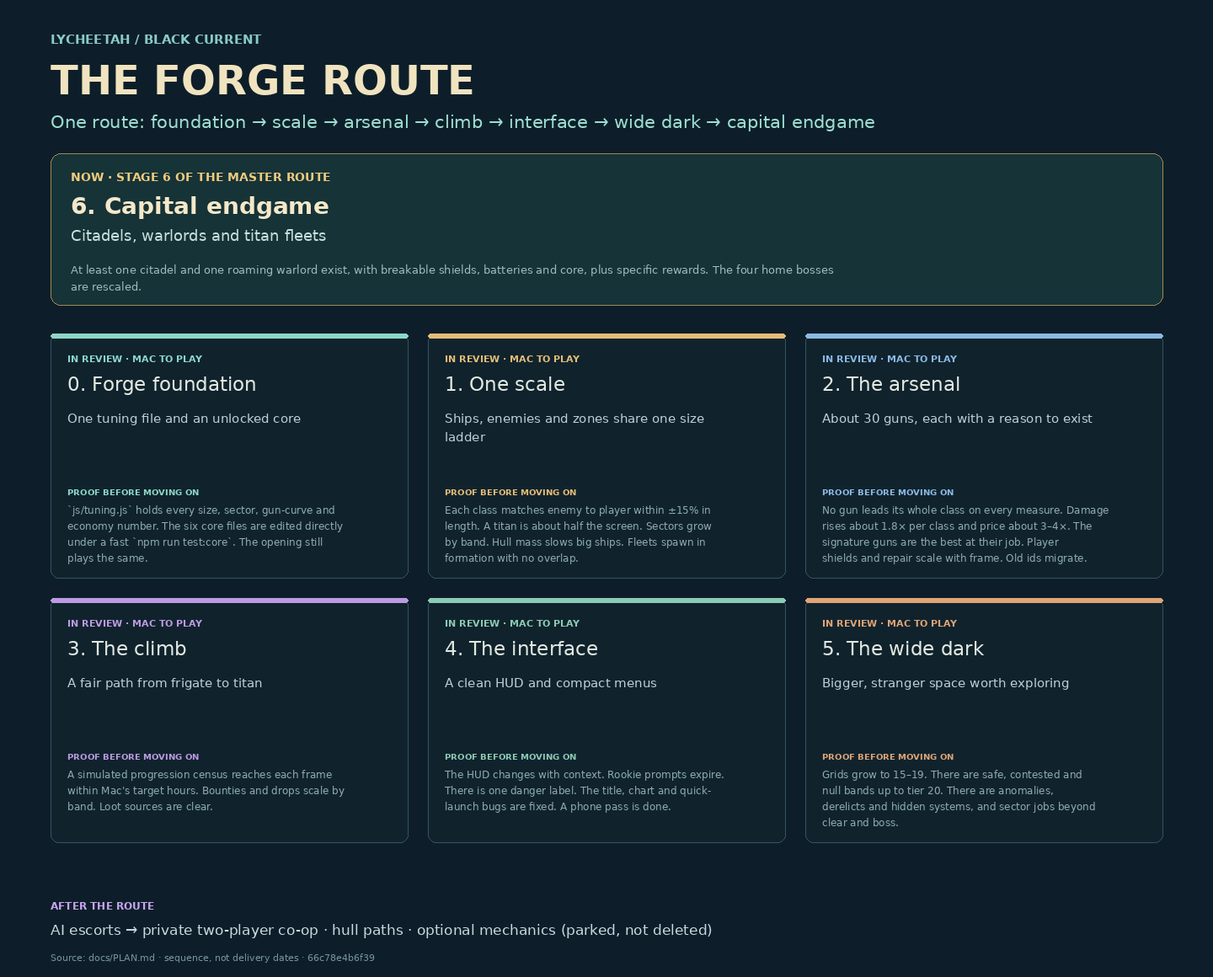
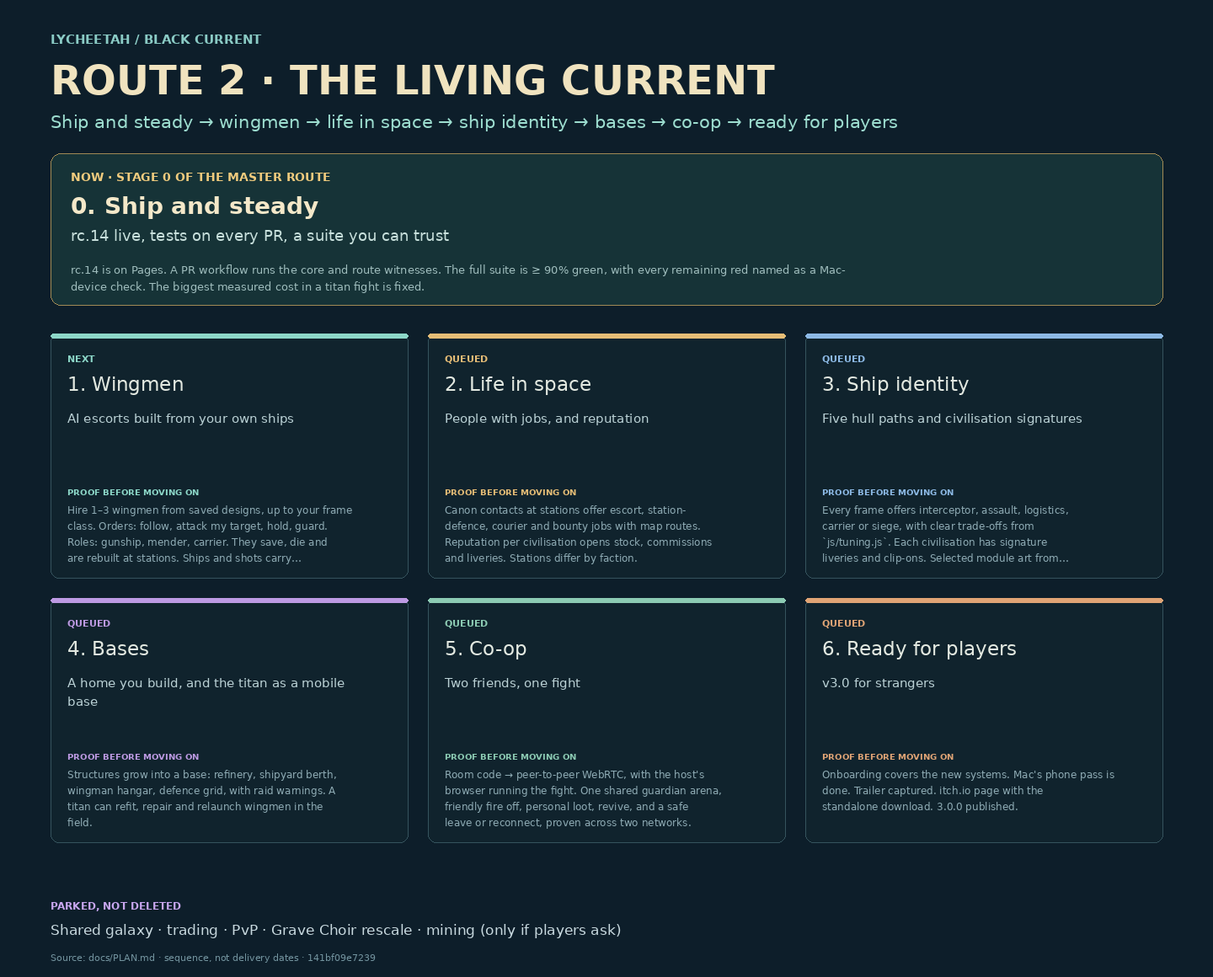
Publish rc.14 and lay out Route 2, "The living current"
rc.14 (2.12.0-rc.14 · Master route preview) is live:
- built from 176a1b3 and published as gh-pages 07870cb;
- Pages built in about 45 s, and live play/ shows v=20261028s69 and the
  rc.14 title;
- 35/35 changed live files match the package hashes;
- the package gate passes 23/24; the one failure needs untracked incoming
  art in the building clone.
Before publishing I rebuilt the candidate so the landing page keeps the
committed flight screenshot. witness-site had overwritten it with a
shipyard capture during the full run.

docs/PLAN.md now carries Route 2 in seven stages: ship and steady,
wingmen, life in space, ship identity, bases, co-op, ready for players.
Each stage has its done-when, files and witness, plus the reasons for the
order. New decisions (Mac, 2026-10-29):
- small drops;
- five hull paths;
- peer-to-peer, host-authoritative co-op; the PeerJS relay needs Mac's
  confirmation before Stage 5 ships.

Route 1's stage rows are removed from the live tasks (their receipts are
in the CHANGELOG and the Stage 0-6 commits). Live tasks start Route 2 at
Stage 0, with the rc.14 verdict open for Mac. The roadmap is re-rendered
with Route 2 labels, and README and CHANGELOG record the publication.

Claude-Session: https://claude.ai/code/session_01KZmWTsz9sR1w1zFVsVwU6C

diff --git a/scripts/render-roadmap.py b/scripts/render-roadmap.py
@@ -36,8 +36,8 @@ def lines(x, y, value, width=45, size=16, color='#abc3c9', limit=6):
     return len(wrapped)*(size+7)
 
 label(60, 52, 'LYCHEETAH / BLACK CURRENT', 15, '#8acbc5', 700)
-label(60, 112, 'THE FORGE ROUTE', 48, '#f0e3bf', 700)
-label(60, 152, 'One route: foundation → scale → arsenal → climb → interface → wide dark → capital endgame', 21, '#9dded0')
+label(60, 112, 'ROUTE 2 · THE LIVING CURRENT', 48, '#f0e3bf', 700)
+label(60, 152, 'Ship and steady → wingmen → life in space → ship identity → bases → co-op → ready for players', 21, '#9dded0')
 parts.append('<rect x="60" y="182" width="1320" height="180" rx="12" fill="#163337" stroke="#a18a55"/>')
 label(84, 215, f'NOW · STAGE {current} OF THE MASTER ROUTE', 14, '#f0cb7d', 700)
 label(84, 254, rows[current][0], 28, '#f4e8c9', 700)
@@ -57,8 +57,8 @@ for i, stage in enumerate(order[1:]):
     label(x+20, y+192, 'PROOF BEFORE MOVING ON', 10, color, 700)
     lines(x+20, y+214, gate, 54, 12, '#8eabb4', 4)
 
-label(60, 1080, 'AFTER THE ROUTE', 12, '#c8a6ef', 700)
-label(60, 1110, 'AI escorts → private two-player co-op · hull paths · optional mechanics (parked, not deleted)', 17, '#c8d9df')
+label(60, 1080, 'PARKED, NOT DELETED', 12, '#c8a6ef', 700)
+label(60, 1110, 'Shared galaxy · trading · PvP · Grave Choir rescale · mining (only if players ask)', 17, '#c8d9df')
 label(60, 1141, 'Source: docs/PLAN.md · sequence, not delivery dates · '+hashlib.sha256(source.read_bytes()).hexdigest()[:12], 11, '#73949f')
 parts.append('</svg>')
 svg='\n'.join(parts)

diff --git a/docs/PLAN.md b/docs/PLAN.md
@@ -3,75 +3,143 @@
 The one plan for every AI seat and every human working on this repo: a single
 route, worked top-down. Read it before you start; update it before you stop.
 
-## The master route (2026-10-28)
+## The master route · Route 2 "The living current" (2026-10-29)
 
-The central loop is **build → fight → recover something useful → refit → choose
-a harder destination**. Mac owns design, direction, the phone/fun verdict and
-release decisions. This is the **only** game plan: one route, worked top-down,
-from the published rc.13 to the capital endgame. Stages are a sequence, not
-dates. The table is what `scripts/render-roadmap.py` draws; the stage notes
-below it are the working list.
+The central loop is still **build → fight → recover something useful → refit → choose
+a harder destination**. Route 1 (scale, arsenal, climb, interface, wide dark, capital
+endgame) shipped as **2.12.0-rc.14**. Its receipts live in the CHANGELOG and git history.
+Route 2 makes the Current feel **alive and shared**: allies, people with jobs, ships with
+identity, a home you build, a friend in the fight, and a release strangers can pick up.
+
+Mac owns design, direction, the phone/fun verdict and release decisions. This is the
+**only** game plan: one route, worked top-down. **Every stage ends in a publishable
+candidate.** We publish small drops (one per stage or two) on Mac's word, so feedback
+stays fresh. The table is what `scripts/render-roadmap.py` draws; the stage notes below
+are the working list.
 
 | Stage | Outcome | Done when |
 | --- | --- | --- |
-| 0. Forge foundation | One tuning file and an unlocked core | `js/tuning.js` holds every size, sector, gun-curve and economy number. The six core files are edited directly under a fast `npm run test:core`. The opening still plays the same. |
-| 1. One scale | Ships, enemies and zones share one size ladder | Each class matches enemy to player within ±15% in length. A titan is about half the screen. Sectors grow by band. Hull mass slows big ships. Fleets spawn in formation with no overlap. |
-| 2. The arsenal | About 30 guns, each with a reason to exist | No gun leads its whole class on every measure. Damage rises about 1.8× per class and price about 3–4×. The signature guns are the best at their job. Player shields and repair scale with frame. Old ids migrate. |
-| 3. The climb | A fair path from frigate to titan | A simulated progression census reaches each frame within Mac's target hours. Bounties and drops scale by band. Loot sources are clear. |
-| 4. The interface | A clean HUD and compact menus | The HUD changes with context. Rookie prompts expire. There is one danger label. The title, chart and quick-launch bugs are fixed. A phone pass is done. |
-| 5. The wide dark | Bigger, stranger space worth exploring | Grids grow to 15–19. There are safe, contested and null bands up to tier 20. There are anomalies, derelicts and hidden systems, and sector jobs beyond clear and boss. |
-| 6. Capital endgame | Citadels, warlords and titan fleets | At least one citadel and one roaming warlord exist, with breakable shields, batteries and core, plus specific rewards. The four home bosses are rescaled. |
+| 0. Ship and steady | rc.14 live, tests on every PR, a suite you can trust | rc.14 is on Pages. A PR workflow runs the core and route witnesses. The full suite is ≥ 90% green, with every remaining red named as a Mac-device check. The biggest measured cost in a titan fight is fixed. |
+| 1. Wingmen | AI escorts built from your own ships | Hire 1–3 wingmen from saved designs, up to your frame class. Orders: follow, attack my target, hold, guard. Roles: gunship, mender, carrier. They save, die and are rebuilt at stations. Ships and shots carry owner/team ids. |
+| 2. Life in space | People with jobs, and reputation | Canon contacts at stations offer escort, station-defence, courier and bounty jobs with map routes. Reputation per civilisation opens stock, commissions and liveries. Stations differ by faction. |
+| 3. Ship identity | Five hull paths and civilisation signatures | Every frame offers interceptor, assault, logistics, carrier or siege, with clear trade-offs from `js/tuning.js`. Each civilisation has signature liveries and clip-ons. Selected module art from Antigravity's lane is in flight and in the yard. |
+| 4. Bases | A home you build, and the titan as a mobile base | Structures grow into a base: refinery, shipyard berth, wingman hangar, defence grid, with raid warnings. A titan can refit, repair and relaunch wingmen in the field. |
+| 5. Co-op | Two friends, one fight | Room code → peer-to-peer WebRTC, with the host's browser running the fight. One shared guardian arena, friendly fire off, personal loot, revive, and a safe leave or reconnect, proven across two networks. |
+| 6. Ready for players | v3.0 for strangers | Onboarding covers the new systems. Mac's phone pass is done. Trailer captured. itch.io page with the standalone download. 3.0.0 published. |
 
 ```mermaid
 flowchart LR
-  S0["0 · Forge foundation"] --> S1["1 · One scale"] --> S2["2 · The arsenal"] --> S3["3 · The climb"]
-  S3 --> S4["4 · The interface"] --> S5["5 · The wide dark"] --> S6["6 · Capital endgame"]
+  S0["0 · Ship and steady"] --> S1["1 · Wingmen"] --> S2["2 · Life in space"] --> S3["3 · Ship identity"]
+  S3 --> S4["4 · Bases"] --> S5["5 · Co-op"] --> S6["6 · Ready for players"]
 ```
 
 ### Why this order
 
-Measured on rc.13 (2026-10-28):
-- **Zones too small.** A sector is 5,200–6,400 px across, while a titan is 800 px and an enemy flagship about 1,200 px. At 40% zoom, one screen is half a sector.
-- **Sizes don't match.** Enemy art is scaled up to 4.5× (`js/hostile-skins.js`), so enemies are bigger than player ships of the same class. Deep fleets spawn overlapping. Movement has no mass, so a titan handles like a frigate.
-- **Guns.** 78 of the 93 guns are the same 15 types cloned into each class. Flak has the top damage in every class and Lance the lowest. Railgun, lance and cluster are weaker than generated guns in their own class.
-- **Price wall.** Capital guns cost about 110k, 10× the siege price, for 1.85× the damage.
-- **Endgame.** A fitted titan costs about 2M metal against 1,500 metal per tier-10 kill. Player shields don't scale: a titan had 90 shield; the tier-10 enemy has 22,000.
+- **Trust first.** 31 of 54 witnesses are red, mostly stale, so the suite can't yet say "nothing broke". Small drops need a suite and CI that mean something.
+- **Wingmen before co-op.** Giving ships owner/team ids, and letting more than one friendly ship fight beside you, is half the co-op refactor. It is also fun on its own, solo.
+- **Life before bases.** Jobs, contacts and reputation are what give a base a reason to exist and a reason to be raided.
+- **Identity before bases.** Hull paths decide what a base's berth and hangar build and hold.
+- **Co-op late but not last.** It reuses wingmen (team ids), bases (a shared home later) and the guardian arenas. It needs the networking spike and a connection decision, which was made below.
+- **Ready for players last.** Onboarding, trailer and store page describe a finished feature set.
 
-Scale comes first because every later number (range, damage, price, sector content) is tuned against it. Doing balance before scale means doing it twice.
+### Decisions in force
 
-### Decisions in force (Mac approved, 2026-10-28)
+Still in force from Route 1:
+1. The six core files are open to edit, under behaviour witnesses.
+2. Saves are migrated, never reset.
+3. `art/` is used first; Antigravity keeps the module and cosmetic art lane.
+4. Threat stays fixed by place and never reads the player's power.
 
-1. **The six core files are unlocked.** `engine.js`, `hardpoints.js`, `fleet.js`, `weapons.js`, `progression.js` and `shipyard-ui.js` may be edited directly. Behaviour witnesses replace their byte-hash gates.
-2. **About 30 curated guns** are offered instead of 93 (all 16 Point starters, 25 roster guns, 3 specials). Retired guns already owned keep flying; nothing is taken from a save, so no refund is due. Enemies and salvage use the roster gun of the same class and family.
-3. **Migrate saves; never reset them.** Blueprints, metal and progress survive every stage.
-4. **A titan fills about 40% of the screen at the default zoom.** The camera pulls back with hull class, and sectors grow with danger band (Mac's framing verdict decides the final ladder in `js/tuning.js`).
-5. **Use `art/` first** (see Art library) before commissioning anything new. Antigravity keeps the module/cosmetic art lane.
+New, Mac, 2026-10-29:
+5. **Small drops.** Publish rc.14, then a candidate after every stage or two, on Mac's word.
+6. **Five hull paths per frame:** interceptor, assault, logistics, carrier, siege.
+7. **Co-op is peer-to-peer and host-authoritative.** The host's browser runs the fight and the guest sends input. No game server.
+   - Signalling for the first slice uses a free relay (PeerJS cloud). That is a third-party dependency; Mac confirms it before Stage 5 ships.
 
-### After the route (parked, not deleted)
-- **AI escorts, then private co-op.** Useful AI escort roles first, then the private two-player arena (proposal below).
-- **More sector jobs.** Escort, station defence and courier jobs (Stage 5 shipped salvage and anomaly jobs).
-- **Hull specialisation paths.** Five or eight per frame; decide before building.
-- **Optional mechanics.** Damage-type multipliers, adjacency bonuses, a volatile hold and a fitting-reduction preview. Never add these by implication.
-- **Mining and industry.** Only if players ask.
+### Stage notes (the working list)
 
-### Co-op proposal — design only
+**0 · Ship and steady**
+- ~~Publish rc.14~~ Done 2026-10-29 (see live tasks).
+- **CI:** add `.github/workflows/test.yml` on `pull_request`. It installs Playwright Chromium, serves the repo and runs `node scripts/regression.mjs core one-scale arsenal climb interface wide-dark capital`.
+- **Test debt:** work the red witnesses (list in `shots/regression/summary.json`).
+  - Update the stale ones: old UI ids, "92 weapons", missing fixtures.
+  - Retire witnesses whose subject was removed (freeform editor, workshop), with one line each in the commit.
+  - Name the Mac-device-only checks as exceptions.
+- **Performance:** profile a danger-20 titan fight with `scripts/profile-fps.mjs` and `js/render-budget.js`. Fix the biggest measured cost. Desktop and phone-viewport numbers recorded; real-device FPS stays Mac's.
 
-- First slice: private two-player room, one arena, existing ships, one shared
-  guardian, friendly fire off, personal loot and a simple revive. Four players
-  is a later expansion, after frame/network measurements.
-- Join flow: create room → share code → ready check → enter together → fight →
-  leave with an explicit result. No public matchmaking or voice/chat is needed
-  for this first slice.
-- Proposed authority: a room service owns enemies, damage, pickups and reward
-  claims; clients send input and display snapshots. This needs a technical
-  spike: the present runtime has one global player and player/enemy bullet
-  ownership. It is not already a network engine.
-- Architecture gate: separate simulation from presentation, add player/team IDs,
-  validate imported designs, and define reconnect and room-ending behaviour.
-  Prototype persistent rewards only after duplicate-claim and dropped-connection
-  cases pass. Room hosting, stack, cost and delivery time are still undecided.
-- Persistent shared galaxy, trading and PvP stay outside the first prototype.
-  This proposal authorises planning, not deployment of a multiplayer backend.
+**1 · Wingmen**
+- Grow `js/roles.js` wing escorts into real modular wingmen:
+  - a `wingmen` save doc;
+  - designs compiled with `modularShips.compile` and scaled by `tuning.SIZE`;
+  - steering from `EnemyOrganism`, but on the player's team.
+- Orders on keys 5–8 and phone buttons.
+- Owner/team id on ships and projectiles, so hits, kills, loot and contracts attribute correctly.
+- Rebuild a lost wingman at stations for metal.
+- Witness: `witness-wingmen.mjs`.
+
+**2 · Life in space**
+- A contacts board in station services (`js/station-grid.js`), using canon names from `js/canon.js`.
+- New contract kinds with routes via `js/travel.js`:
+  - escort (a convoy follows a lane);
+  - station defence (waves at a public berth);
+  - courier (dock at a far station);
+  - bounty (a named target).
+- Reputation per civilisation opens `quartermaster.js` stock, commissions and liveries.
+- Witness: `witness-life.mjs`.
+
+**3 · Ship identity**
+- Hull paths are bought from the Shipwright and stored per frame. Each changes a few `tuning` multipliers (mass, shields, slots, hangar count, siege range), shown on frame cards.
+- Civilisation signatures through `js/ship-identity.js` and `js/faction-art.js`.
+- Module art from `art/review/` → `art/keyed/` with manifests, coordinated with Antigravity.
+- Witness: `witness-identity-paths.mjs`.
+
+**4 · Bases**
+- Extend `js/hubs.js` KINDS: refinery, berth, hangar, defence grid.
+- A base panel: modules, upkeep, raid warnings.
+- Titan services: refit and wingman relaunch in the field, gated by a titan-class hangar.
+- Witness: `witness-bases.mjs`.
+
+**5 · Co-op**
+- Refactor the engine to `engine.players[]`, with `engine.player` kept as the local alias; per-player input and HUD.
+- Networking:
+  - a WebRTC data channel;
+  - the host sends snapshots at about 15 Hz and the guest sends input at 30 Hz.
+- First slice (design notes below):
+  - one guardian arena;
+  - personal loot claimed on the host and written to each player's own save;
+  - revive;
+  - a 30 s reconnect window.
+- Witness: `witness-coop.mjs`, with two browser contexts.
+
+**6 · Ready for players**
+- Onboarding cards for lanes, derelicts, citadels, wingmen, paths and co-op.
+- Mac's phone pass.
+- Trailer from `docs/TRAILER_CAPTURE.md`.
+- itch.io page and standalone build.
+- 3.0.0, with a changelog entry.
+
+### Parked (not deleted)
+- **Persistent shared galaxy, trading, PvP:** only after co-op works.
+- **Grave Choir rescale onto the new ladder:** fold into a stage when its excursion is next touched.
+- **Optional mechanics:** adjacency bonuses, a volatile hold, a fitting-reduction preview. Never add these by implication.
+- **Mining and industry:** only if players ask.
+
+### Co-op design (Stage 5)
+
+- **First slice:** a private two-player room, one arena, existing ships, one shared
+  guardian, friendly fire off, personal loot and a simple revive. Four players is a
+  later expansion, after frame and network measurements.
+- **Join flow:** create room → share code → ready check → enter together → fight →
+  leave with an explicit result. No public matchmaking or voice/chat.
+- **Authority:** the host's browser simulates enemies, damage, pickups and reward
+  claims. The guest sends input and draws snapshots. Each player's own save records
+  only their own loot. Duplicate-claim and dropped-connection cases must pass before
+  rewards persist.
+- **Architecture gate:**
+  - separate simulation from presentation;
+  - player/team ids (started in Stage 1);
+  - validate the guest's imported design;
+  - defined reconnect and room-ending behaviour.
 
 ### What makes the game worth returning to
 
@@ -110,22 +178,21 @@ snapshot of this table, not an automatic activity feed.
 
 <!-- live-tasks:start -->
 Project: Black Current
-Published: rc.13 · Threat ladder · live on Pages
-Candidate: 2.12.0-rc.14 · Master route (preview), cache 20261028s69, built locally (`dist/black-current.html`); not published
-Focus: all seven stages are on the branch and await Mac's play. Publish only on Mac's word; rc.13 phone verdict still open.
-Updated: 2026-10-28T21:30:00+00:00
+Published: 2.12.0-rc.14 · Master route (preview) · live on Pages (gh-pages 07870cb, cache 20261028s69)
+Candidate: none
+Focus: Route 2 · Stage 0 Ship and steady is running (CI, test debt, performance). rc.14 phone and fun verdict is open.
+Updated: 2026-10-29T10:00:00+00:00
 
 | ID | Status | Task | Evidence / next step |
 | --- | --- | --- | --- |
-| stage-0-foundation | review | Unlock the core, add `js/tuning.js`, add `test:core`, finish the regression baseline | Landed 6750b5c. Hash gates retired; `js/tuning.js` holds live numbers; `npm run test:core`/`test:all`. Baseline vs untouched rc.13: 48 witnesses, 17 green; every other failure reproduces on rc.13 (stale fixtures/UI ids, old weapon counts). Chromium-only run here; Firefox not installed. |
-| stage-1-scale | review | One size ladder for ships, enemies and zones | Landed db4a8da. `witness-one-scale` 10/10: titan 1,814 px, enemies ±12% of class, danger-10 rooms 9,000 px, titan ~41% of screen, 0.50× speed / 0.36× turn, 0 spawn overlaps. 11/11 green witnesses unchanged. Mac: play big hulls, judge framing and pace. PHONE: pending. |
-| stage-2-arsenal | review | About 30 curated guns; curves; shields; save migration | `witness-arsenal` 14/14; census in `docs/research/ARSENAL_CENSUS_2026-10-28.csv`. One gun per family per class Light→Capital; lanes (beam ×1.5 vs shields, rail ×1.3 vs hull) measured on real hits; DPS ×1.75–2.0 and price ×3.4–3.8 per class; titan shield 6,300 (was 90). Owned retired guns still fly. Mac: try beams vs shielded fleets. PHONE: pending. |
-| stage-3-climb | review | Fair frigate → titan economy and useful loot | `witness-climb` 7/7. Measured kill times + modelled pace (2.5× kill time + 25 s travel, `tuning.CLIMB`): frigate → titan 17.6 h in steps 1.1/2.0/3.5/5.0/6.0 h (was 59 h with a 16 h cruiser→battleship wall). Frames/training re-priced, mid-tier bounties raised. Deep wrecks now drop the band's own roster guns (capital at tier 8, was Light); ~5 loose parts and ~7–10 cores per 100 kills. Biomass gates unmodelled. Mac: set the target hours by playing. |
-| stage-4-interface | review | Contextual HUD, compact menus, title fixes, phone pass | `witness-interface` 10/10 with desktop/phone captures. One danger number (strip: sector danger, system in brackets); home-only expedition prompt hides elsewhere; `body.bc-combat` folds contract rows and dims view controls; chart blocked over title; solid one-row launch footer; `?forge-test` quick launch works (grant after launch); phone dock prompt no longer covers doctrine buttons. Existing: phone-layout Ability reachability fails as on rc.13. PHONE: pending on Mac's device. |
-| stage-5-wide-dark | review | Bigger grids, danger bands to 20, anomalies, sector jobs | `witness-wide-dark` 10/10. Home 19×19, systems 15–19 wide (inner coordinates/seeds unchanged). Bands: safe 1–3, contested 4–10, null 11–20 (far regions +3/+6); threat rows extended to 20 (tier 20: 654k HP, 9,300 metal); null fleets = titan flagship, tier-18 escorts, capital screens; rooms to 12,000 px. Derelicts (guarded; salvage = band-class roster gun + metal), anomalies (relic fitting + a far system charted), GRAVEYARD rule by hash (no rolled rule moved), salvage/anomaly contracts. Escort, station-defence and courier jobs not built (see After the route). PHONE: pending. |
-| stage-6-capital | review | Citadels, warlords, titan fleets, rescaled bosses | `witness-capital` 9/9. Null-band citadels (sealed core, 2 generators, 3 batteries, hangar; pinned hulls) pay a Citadel heart (+8 power titan clip-on, one per heart), a capital gun and metal, and stay broken. Six canon-named warlords roam the null band every 20 min; first defeat drops a relic capital gun. Home bosses: tier-5 ×3 rung (12,600 HP). Grave Choir unchanged. PHONE: pending. |
-| rc14-candidate | review | Judge the master-route preview build | `build-candidate.py` → 652 files; `witness-release-candidate` 23/24 (the one failure needs Mac's untracked incoming art to exist; this clone has none). Offline DOM images now read embedded art. Final full run: 23/54 green; every other failure reproduces on rc.13 or is a timing flake that passes alone. Mac: download `dist/black-current.html` from the branch and play; publish on your word. |
-| phone-verdict | review | Judge rc.13 on actual hardware | Rc.13 live: source ef975d7, Pages 939cf45, cache 20261028s68. Phone FPS, comfort and coordinated fights unverified. |
+| stage-0-ship | running | rc.14 live, CI on PRs, ≥ 90% suite, titan-fight performance | rc.14 published: gh-pages 07870cb from source 176a1b3; Pages built in ~45 s; live `play/` shows `v=20261028s69` and "2.12.0-rc.14"; 35/35 changed live files match the package. Package gate 23/24 (the incoming-art check needs Mac's local art). Next: CI workflow, then test debt. |
+| stage-1-wingmen | queued | AI escorts built from your ships, plus team ids | Wingmen save doc, orders, roles, rebuild at stations; `witness-wingmen`. |
+| stage-2-life | queued | Contacts, jobs, reputation | Escort / defence / courier / bounty with routes; per-civilisation reputation; `witness-life`. |
+| stage-3-identity | queued | Five hull paths, civilisation signatures, module art | Paths in `tuning`; liveries/clip-ons; Antigravity art lane; `witness-identity-paths`. |
+| stage-4-bases | queued | Base modules, raids, titan services | Refinery / berth / hangar / defence grid; raid warnings; field refit; `witness-bases`. |
+| stage-5-coop | queued | Two-player peer-to-peer guardian fight | `engine.players[]`, WebRTC host authority, loot/revive/reconnect; Mac confirms the PeerJS relay first; `witness-coop`. |
+| stage-6-players | queued | v3.0 for strangers | Onboarding, phone pass, trailer, itch.io, 3.0.0. |
+| rc14-verdict | review | Mac plays rc.14 (desktop and phone) | Live at lycheetah.github.io/black-current/play/. Judge framing, pace, guns, the 17.6 h climb model, menus and FPS. Every number is one line in `js/tuning.js`. |
 <!-- live-tasks:end -->
 
 ## Art library (`art/`, use before commissioning)

diff --git a/README.md b/README.md
@@ -125,28 +125,18 @@ delete an item in the same commit that lands it, and remember `main` is not the 
 (Pages serves `gh-pages`; see its Deploy section). Dated plans and handoffs are history.
 
 Check Git state and the [changelog](CHANGELOG.md) before editing.
-Current published build: **2.11.0-rc.13 · Threat ladder** (cache `20261028s68`).
-Runtime source `ef975d7`, Pages `939cf45`; Pages built and all11 changed live
-files match the exact checked package. Receipt:
-`shots/release-candidate/publication-rc13.json`.
-`test:scaling` passed22/22 against that package: protected opening, home3/4/5
-steps, fixed deep threats to10, mixed fleets, physical fitting classes,
-frame durability, no refit/stat-recalculation healing, real firing/collision
-kills, exact native payouts and bounded hull textures. Captures inspected.
-`test:candidate` passed25/25 exact-package/offline checks:647 files,646 hashes,
-169 embedded art images, build-first/premade launch, services and Continue.
-Native stationary-target kills took about1.5/5.6/8.2/26.7seconds for matched
-cruiser/battleship/capital/titan fits versus tiers3/5/7/10. These are controlled
-combat probes; coordinated-fleet survival, actual phone FPS/feel, audio taste
-and full regression remain pending. No extra map rings shipped.
-Desktop rc.13 HTML matches SHA256
[1 lines of base64/hex data omitted]
-Frame bonuses run from+300 cruiser to+22,000 titan hull HP. Ordinary deep
-fleets use one flagship, two escorts and lighter screens, with normal tier10
-bounties up to1,500 metal. Long-battery target lock reaches3,000 units;
-Novice range stays at1,300. Authored bosses, Swarm, training and jelly encounters
-keep separate rules. Capital shield/repair-module progression and authored
-boss scaling still need their own work.
+Current published build: **2.12.0-rc.14 · Master route (preview)** (cache `20261028s69`).
+Source `176a1b3`, Pages `07870cb`. Pages built, and all 35 changed live files match the
+checked package. `test:candidate` passed 23/24; its incoming-art check needs a clone
+holding untracked incoming art. The route witnesses pass:
+- one-scale 10/10;
+- arsenal 14/14;
+- climb 7/7;
+- interface 10/10;
+- wide-dark 10/10;
+- capital 9/9.
+Route 1's changes are in the CHANGELOG. Next is Route 2, "The living current", in
+`docs/PLAN.md`. Phone FPS and feel, and the modelled 17.6 h climb, wait on Mac's play.
 Antigravity is continuing the separate module/cosmetic-art lane.
 Build the selected-source candidate with `python3 scripts/build-candidate.py`.
 It refreshes `dist/black-current.html`, a versioned sibling, and the publishable

diff --git a/CHANGELOG.md b/CHANGELOG.md
@@ -1,8 +1,9 @@
 # Changelog
 
-## Unreleased — The master route, Stages 0–6 (branch `claude/keen-feynman-p4adh0`)
+## 2.12.0-rc.14 — Master route preview (2026-10-29)
 
-Not published. Pages still serves rc.13. Every number named below lives in `js/tuning.js`.
+Published: source 176a1b3, Pages 07870cb, cache 20261028s69. Pages built, and 35/35 changed
+live files match the checked package. Every number named below lives in `js/tuning.js`.
 
 - **Foundation.** The six core files are covered by behaviour witnesses instead of byte hashes.
   `npm run test:core` and `test:all` run witnesses in bounded groups.
